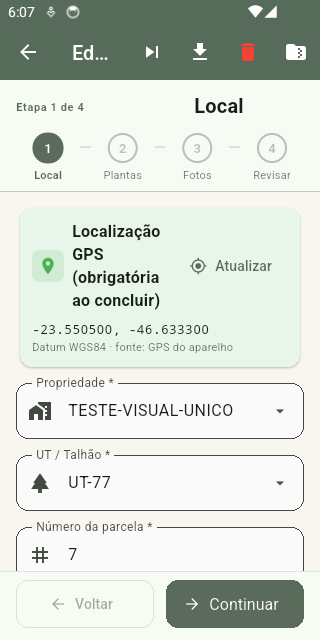
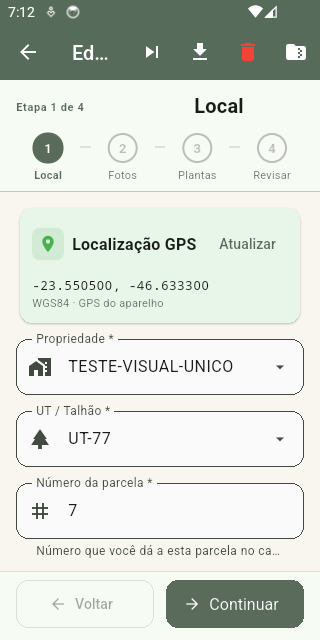
fix(app): card de GPS enxuto — sem '(obrigatorio)' no titulo nem mira no botao
- titulo volta a ser 'Localizacao GPS': quem conclui sem GPS ja e travado
  com o aviso explicito (MRV exige geo auditavel) — anunciar no titulo
  era ruido em tela pequena
- botao 'Atualizar' vira texto puro (sem icone my_location)
- precisao arredonda pra metro inteiro; data do fix vira curta pt-BR
  ('06/11 19:05'); legenda encurta pra 'WGS84 · GPS do aparelho'
- estado vazio: 'Nenhum ponto capturado.' (a explicacao longa sai)

Gates: analyze 0 erros | test 127/127 pass

diff --git a/urutau-app/lib/screens/parcela_form_screen.dart b/urutau-app/lib/screens/parcela_form_screen.dart
@@ -772,7 +772,9 @@ class _ParcelaFormScreenState extends State<ParcelaFormScreen> {
   Widget _gpsCard() {
     return UrutauSectionCard(
       icon: Icons.location_on,
-      title: 'Localização GPS (obrigatória ao concluir)',
+      // Sem "(obrigatória ao concluir)" no título: quem tentar concluir sem
+      // GPS já é travado com o aviso explícito (MRV exige geo auditável).
+      title: 'Localização GPS',
       accent: _latitude != null ? AppTokens.success : Colors.grey,
       background:
           _latitude != null ? AppTokens.successBg : AppTokens.neutralBg,
@@ -784,11 +786,9 @@ class _ParcelaFormScreenState extends State<ParcelaFormScreen> {
             child: CircularProgressIndicator(strokeWidth: 2),
           )
         else
-          TextButton.icon(
+          TextButton(
             onPressed: widget.readOnly ? null : _getLocation,
-            icon: const Icon(Icons.my_location, size: 18),
-            label:
-                Text(_latitude != null ? 'Atualizar' : 'Capturar GPS'),
+            child: Text(_latitude != null ? 'Atualizar' : 'Capturar GPS'),
           ),
       ],
       child: Column(
@@ -798,20 +798,19 @@ class _ParcelaFormScreenState extends State<ParcelaFormScreen> {
             Text(
               '${_latitude!.toStringAsFixed(6)}, '
               '${_longitude!.toStringAsFixed(6)}'
-              '${_acuraciaM != null ? '  ·  ±${_acuraciaM!.toStringAsFixed(1)} m' : ''}'
-              '${_fixEm != null ? '  ·  ${_fixEm!.toLocal().toString().substring(0, 19)}' : ''}',
+              '${_acuraciaM != null ? '  ·  ±${_acuraciaM!.round()} m' : ''}'
+              '${_fixEm != null ? '  ·  ${_dataHoraCurta(_fixEm!)}' : ''}',
               style: const TextStyle(
                   fontFamily: 'monospace', fontSize: AppTokens.fontSmall),
             ),
             const Text(
-              'Datum WGS84 · fonte: GPS do aparelho',
+              'WGS84 · GPS do aparelho',
               style: TextStyle(
                   fontSize: AppTokens.fontCaption, color: Colors.black54),
             ),
           ] else ...[
             const Text(
-              'Nenhum ponto capturado. Ao concluir a parcela, '
-              'o GPS é obrigatório (MRV exige geo auditável).',
+              'Nenhum ponto capturado.',
               style: TextStyle(fontSize: 12, color: Colors.black54),
             ),
           ],
@@ -823,6 +822,13 @@ class _ParcelaFormScreenState extends State<ParcelaFormScreen> {
         ],
       ),
     );
+  }
+
+  /// Data/hora curtas pt-BR para o card de GPS ("06/11 19:05").
+  String _dataHoraCurta(DateTime dt) {
+    final d = dt.toLocal();
+    String dois(int n) => n.toString().padLeft(2, '0');
+    return '${dois(d.day)}/${dois(d.month)} ${dois(d.hour)}:${dois(d.minute)}';
   }
 
   Widget _propriedadeField() {
